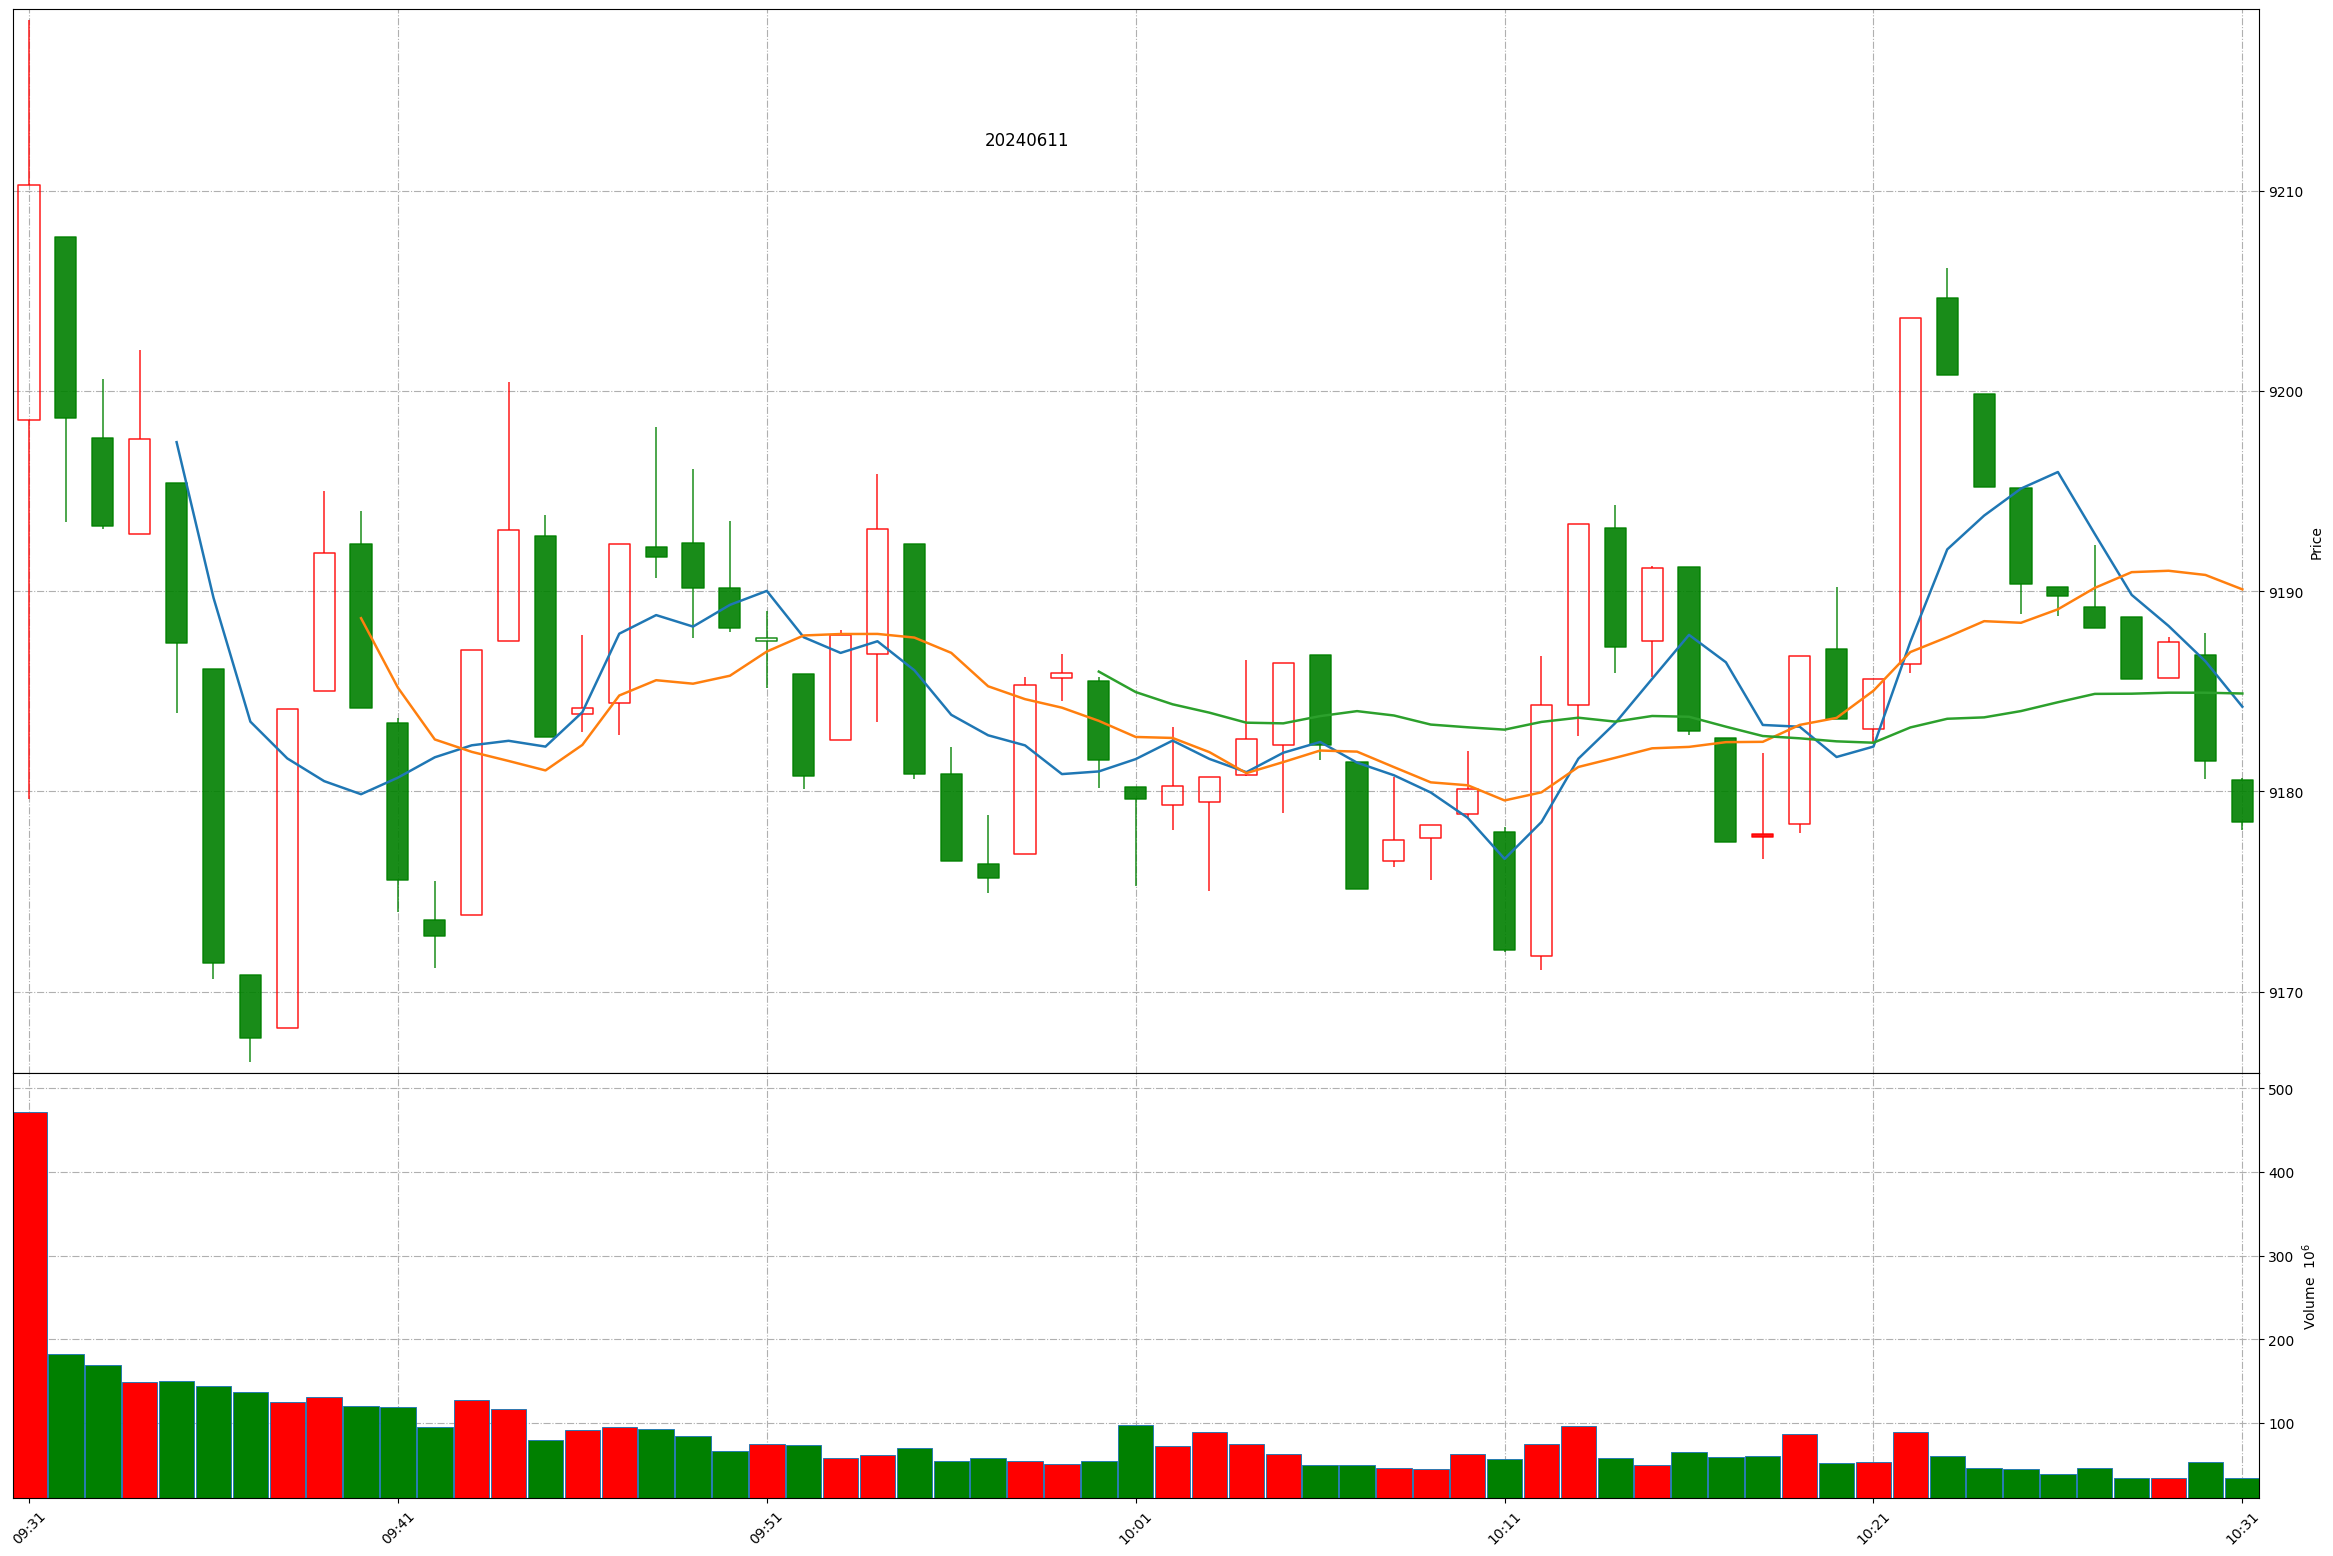
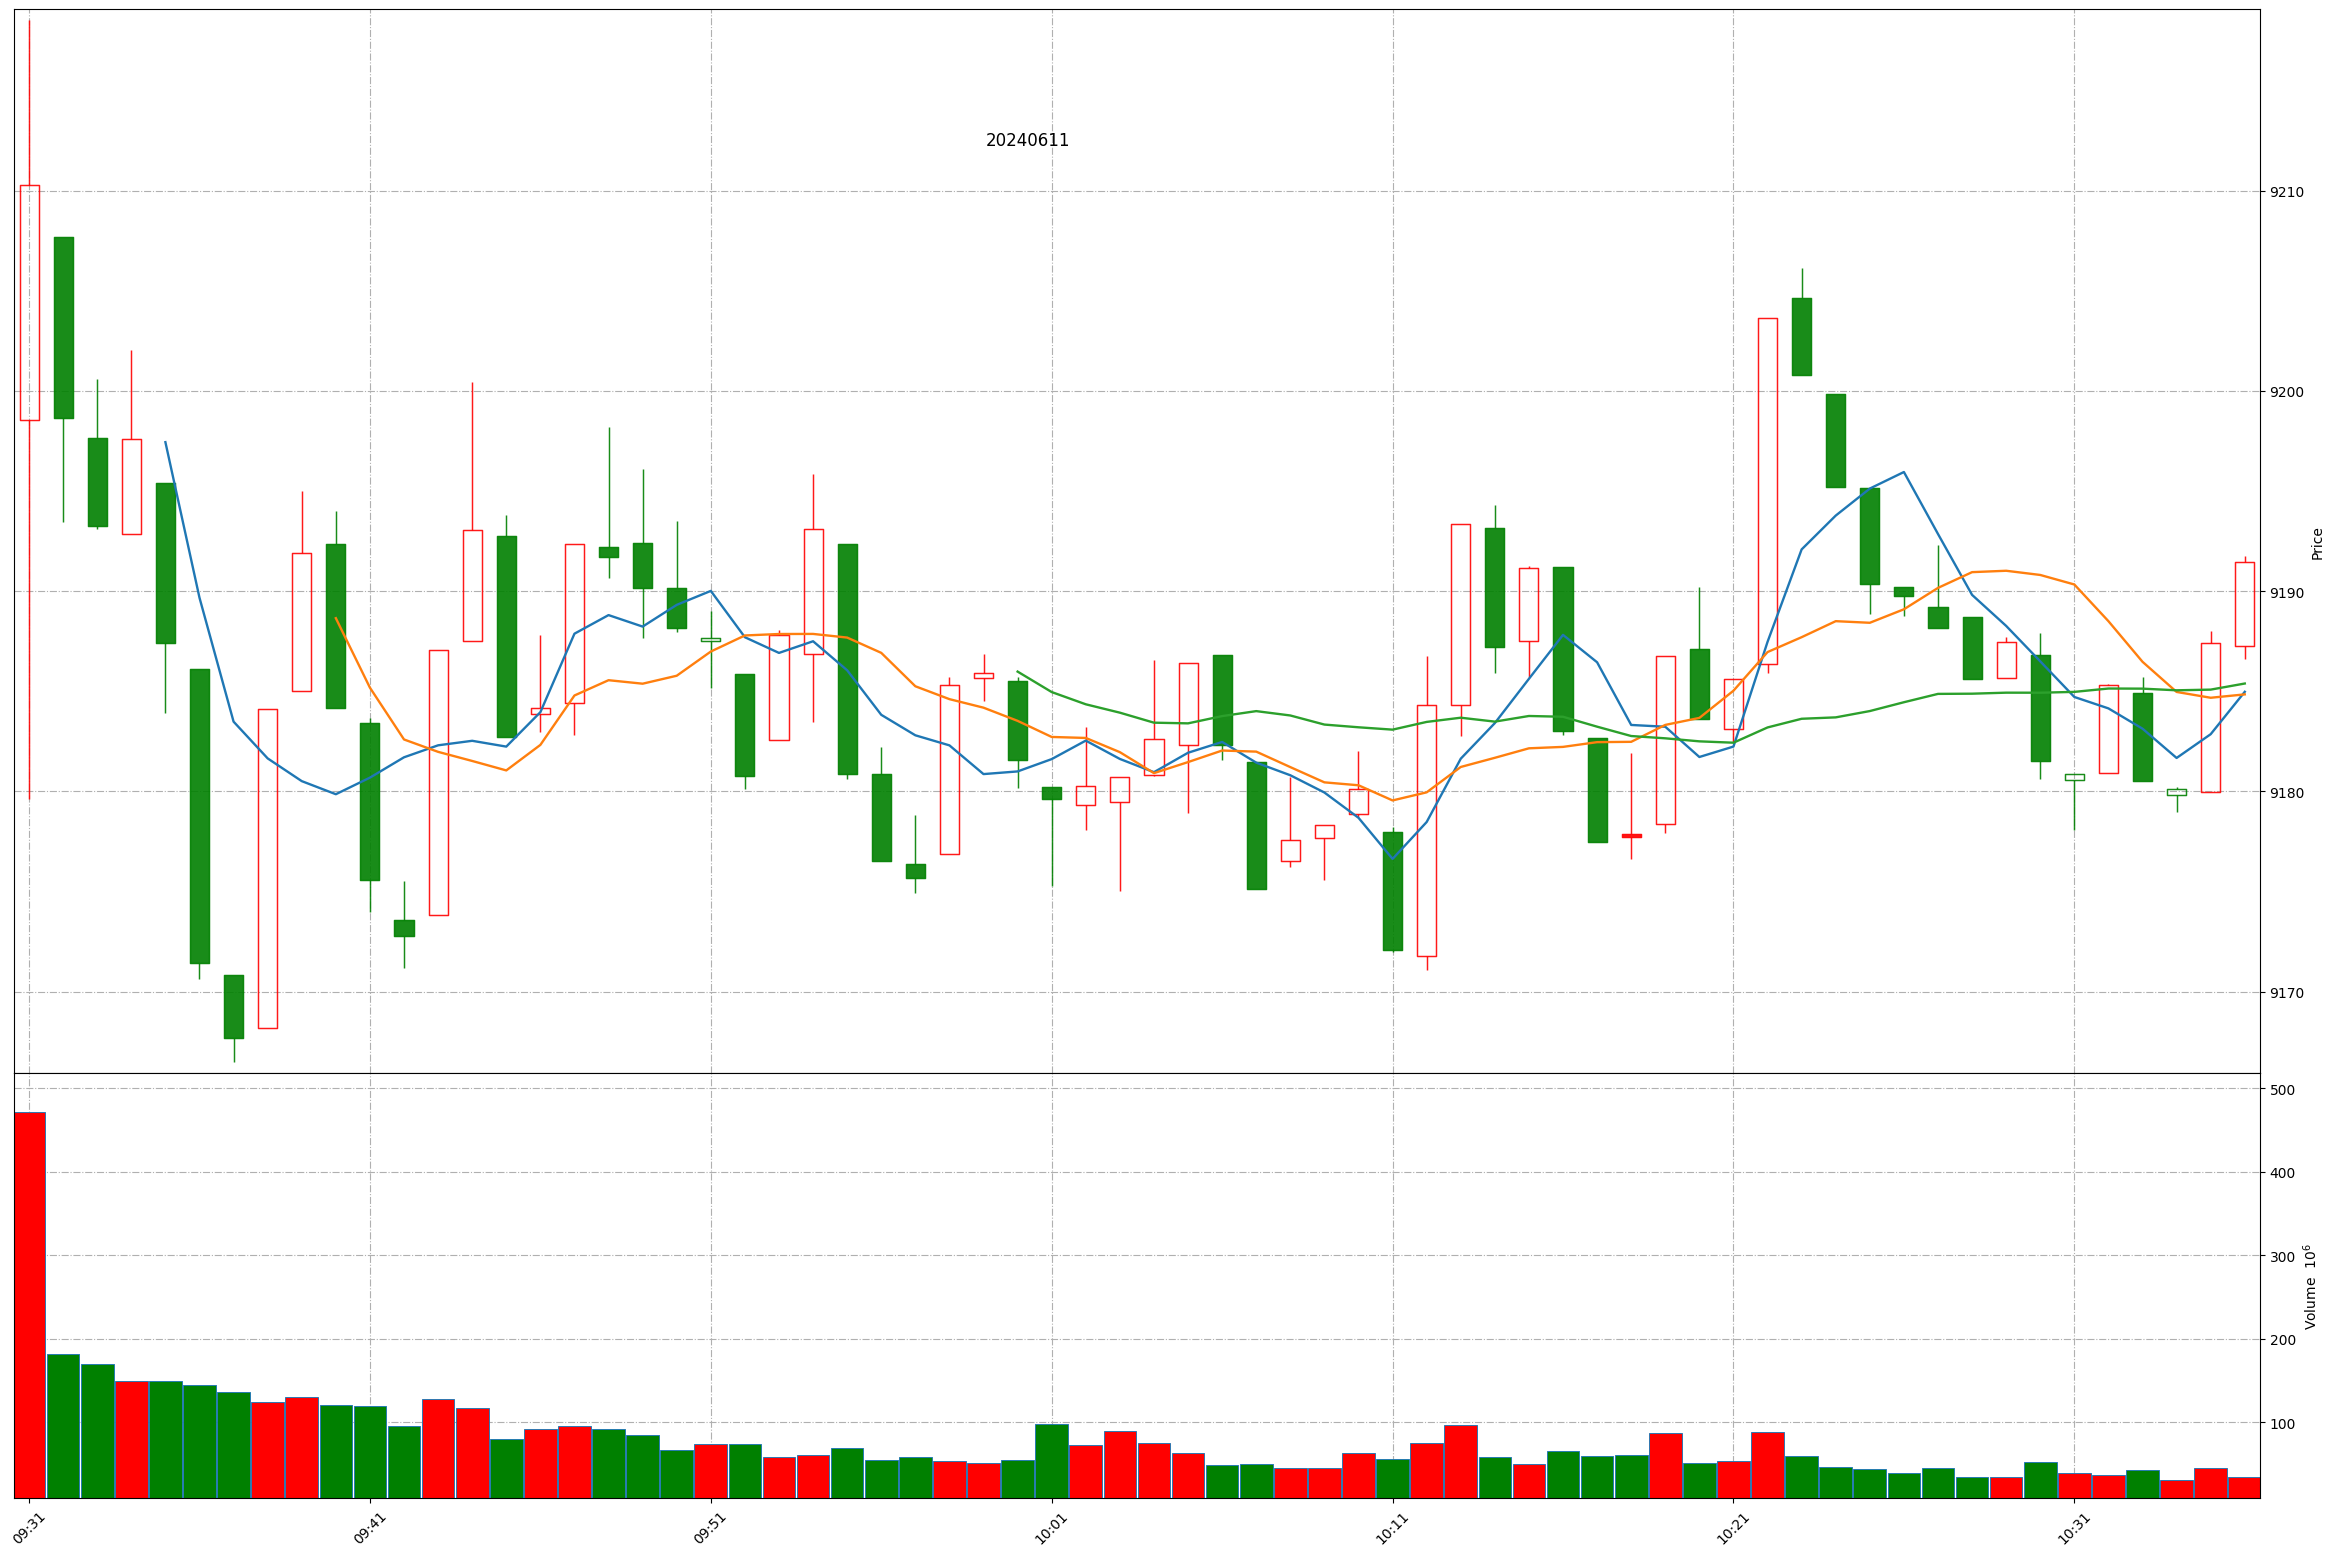
Github action update at 2024-06-11 10:36:18.

diff --git a/README.md b/README.md
@@ -1,11 +1,11 @@
 
 # Daily-A-share-market-quotes 每日 A 股指数（5min 更新）- 20240611
 
-### 上证指数 20240611 10:31
+### 上证指数 20240611 10:36
 ![](./fig/2024/6/20240611-sh000001.png)
 
-### 深证成指 20240611 10:31
+### 深证成指 20240611 10:36
 ![](./fig/2024/6/20240611-sz399001.png)
 
-### 北证50 20240611 10:31
+### 北证50 20240611 10:36
 ![](./fig/2024/6/20240611-bj899050.png)
